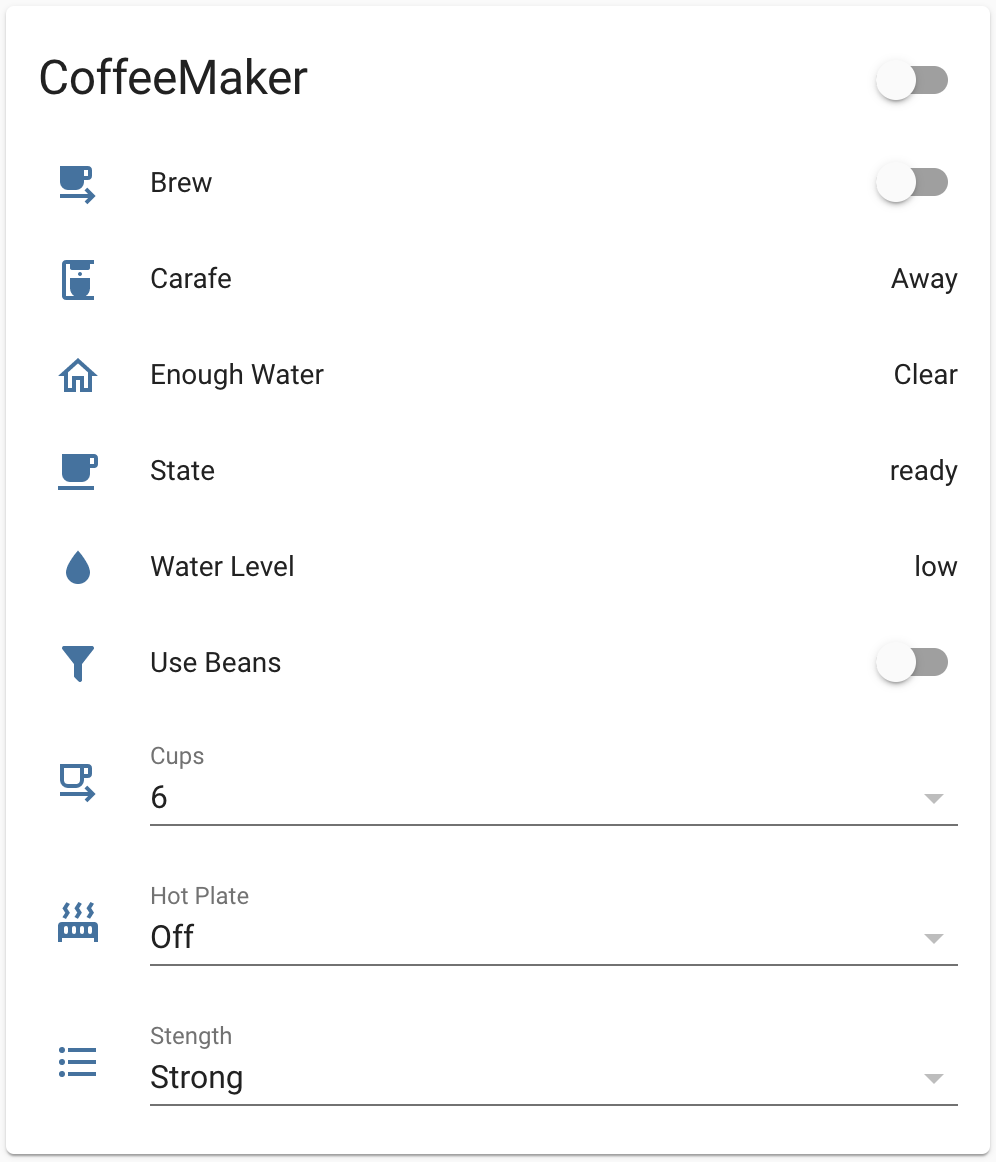
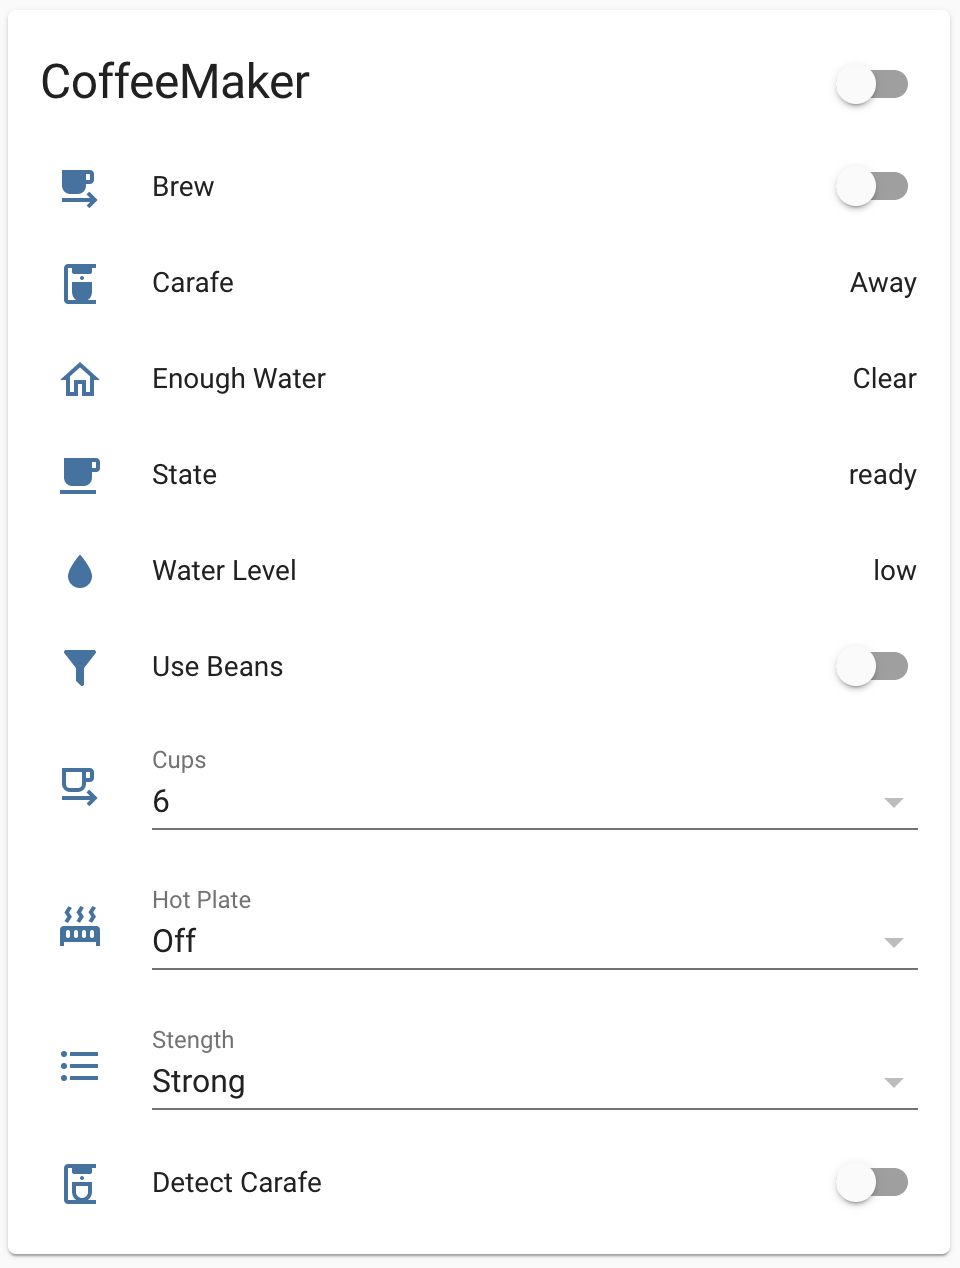
Added support for switch to disable carafe detection. build v 1.4.0

diff --git a/custom_components/smartercoffee/smartercontroller.py b/custom_components/smartercoffee/smartercontroller.py
@@ -85,11 +85,18 @@ class Logger:
     def log(self, string):
         print(string)
 
+
 def as_hex_string(bytes):
         hex_string = ''
         for n in bytes:
             hex_string += ' ' + hex(n)
         return hex_string
+
+def split_response(response):
+    """Find all response messages in a single buffer."""
+    binary = array('B', response)
+    return binary.tobytes().split(COMMAND_SUFFIX.to_bytes(1, 'big'))
+
 
 class SmarterCoffeeController:
     def __init__(self, ip_address, port=2081, mac=None, loop=None, logger=Logger.defaultLogger()):
@@ -175,7 +182,7 @@ class SmarterCoffeeController:
                 if needs_reconnect_timeout:
                     self._log('Waiting for 2 minutes before attempt to reconnect...')
                     await asyncio.sleep(120)
-                
+
                 if not self.is_io_ready:
                     self._log('Reconnecting...')
                     connected = await asyncio.wait_for(self._connect_io(), timeout=30.0)
@@ -185,7 +192,7 @@ class SmarterCoffeeController:
                         needs_reconnect_timeout = False
                         self._loop.call_soon_threadsafe(
                             functools.partial(self._set_availability, True, handler))
-                
+
                 # Wait for 1 seconds
                 await asyncio.sleep(1)
 
@@ -212,10 +219,27 @@ class SmarterCoffeeController:
         self._log('Monitor stopped')
 
     def _handle_message(self, message, handler):
-        self._parse(message)
+        try:
+            responses = split_response(message)
+            for single_message in responses:
+                if len(single_message) < 1:
+                    continue
+                bytes_array = array('B', single_message)
+                id = bytes_array[0]
+                if id == RESPONSE_ID_STATUS:
+                    self._parse(bytes_array)
+                elif id == RESPONSE_ID_CARAFE or id == RESPONSE_ID_MODE:
+                    self._parse_carafe_or_cups_status(bytes_array)
+                elif id == RESPONSE_DEFAULTS:
+                    self._parse_defaults(bytes_array)
+                elif id == RESPONSE_ID_COMMAND:
+                    result = REPLY_TABLE[bytes_array[1]]
+                    self._log(f'result of command {result}')
+        except Exception as exc:
+            self._log(f'exception during parsing {exc}')
         if handler is not None:
             handler(self)
-    
+
     def _set_availability(self, available, handler):
         """Update availability changed in io thread. Called in main thread."""
         self.available = available
@@ -234,7 +258,7 @@ class SmarterCoffeeController:
             except KeyboardInterrupt:
                 self._log('io worker thread stopped')
                 for task in asyncio.all_tasks(loop):
-                    loop.run_until_complete(task)          
+                    loop.run_until_complete(task)
                 loop.stop()    # Received Ctrl+C
                 loop.close()
             self._log('io worker thread exit.')
@@ -381,19 +405,21 @@ class SmarterCoffeeController:
 
     async def fetch_carafe_detection_status(self):
         cmd = self._command_id(COMMAND_GET_CARAFE_REQUIRED)
-        self.carafe_detection = await self._sendCommand(cmd)
-        return self.carafe_detection
-    
+        return await self._sendCommand(cmd)
+
     async def fetch_one_cup_mode_status(self):
         cmd = self._command_id(COMMAND_GET_MODE)
-        self.one_cup_mode = await self._sendCommand(cmd)
-        return self.one_cup_mode
+        return await self._sendCommand(cmd)        
 
     async def turn_carafe_detection_on(self):
+        # force set new state
+        self.carafe_detection = True
         cmd = bytearray([COMMAND_SET_CARAFE_REQUIRED, 0x1, COMMAND_SUFFIX])
         return await self._sendCommand(cmd)
     
     async def turn_carafe_detection_off(self):
+        # force set new state
+        self.carafe_detection = False
         cmd = bytearray([COMMAND_SET_CARAFE_REQUIRED, 0x0, COMMAND_SUFFIX])
         return await self._sendCommand(cmd)
 
@@ -421,7 +447,7 @@ class SmarterCoffeeController:
             self._send_cmd_io(command_bytes), self.io_loop)
         
         return future
-    
+
     async def _send_cmd_io(self, bytes):
         if not self.is_io_ready:
             succeed = await asyncio.wait_for(self._connect_io(), timeout=30.0)
@@ -433,28 +459,33 @@ class SmarterCoffeeController:
             self._writer.write(bytes)
             self._log(f'command sent - waiting for results')
             reply = await self._reader.read(20)
-        
-        result_is_bool = True
+
         try:
             a = array('B', reply)
             self._log(f'arrived cmd response: {as_hex_string(a)}')
-            if a[0] == RESPONSE_ID_COMMAND:
-                result = REPLY_TABLE[a[1]]
-                result_is_bool = False
-            elif a[0] == RESPONSE_ID_CARAFE or a[0] == RESPONSE_ID_MODE:
-                result = a[1] != 0
-            elif a[0] == RESPONSE_DEFAULTS:
-                result = True
-                self._loop.call_soon_threadsafe(
-                    functools.partial(self._parse_defaults, a))
+            self._loop.call_soon_threadsafe(
+                        functools.partial(self._handle_message, a, None))
+            result = REPLY_TABLE[0] # useless - to remove?
         except Exception as exc:
             self._log(f'exception during read cmd status {exc}')
-            if result_is_bool:
-                result = False
-            else:
-                result = 'error: unknown response'
+            result = 'error: unknown response'
         self._log(f'result of command {result}')
         return result
+
+    def _parse_carafe_or_cups_status(self, message):
+        """Parse arrived carafe defect or one cup mode status. Executed on main thread."""
+        try:
+            a = array('B', message)
+            if a[0] == RESPONSE_ID_CARAFE:
+                self.carafe_detection = a[1] != 0
+                self._log(f'Carafe detection is {self.carafe_detection}')
+            elif a[0] == RESPONSE_ID_MODE:                
+                self.one_cup_mode = a[1] != 0
+                self._log(f'One cups mode is {self.one_cup_mode}')
+            else:
+                self._log('Arrived message is not a carafe defect or one cup mode response - return')
+        except Exception:
+            return
 
     def _parse_defaults(self, message):
         """Parse read defaults. Executed on main thread."""
@@ -477,21 +508,22 @@ class SmarterCoffeeController:
         """Parse status response. Executed on main thread."""
         try:
             a = array('B', message)
-            if a[0] != RESPONSE_ID_STATUS:
-                self._log('Arrived message is not a status message - return')
-                return
-            
             hex_string = ''
             for n in a:
                 hex_string += ' ' + hex(n)
             self._log('arrived message: {}'.format(hex_string))
+
+            if a[0] != RESPONSE_ID_STATUS:
+                self._log('Arrived message is not a status message - return')
+                return
 
             status = a[1]
             water_level = a[2]
             wifi_strength = a[3]
             strength = a[4]
             cups = a[5]
-        except Exception:
+        except Exception as ex:
+            self._log(f'Exception during parse {ex}')
             return
 
         def is_set(x, n):
@@ -515,8 +547,8 @@ class SmarterCoffeeController:
         if grinder_on:
             self.state = 'grinding'
         if ready:
-            self.state = 'ready'
-        
+            self.state = 'ready'        
+
         try:
             level = water_level % 16
             self.water_level = water_level_message_types[level]
@@ -532,7 +564,6 @@ class SmarterCoffeeController:
             self.strength = strength_message_types[strength]
         except Exception:
             self.strength = 'strong'
-
 
     def _constrained(self, value, min, max, default):
         constrained_value = default

diff --git a/custom_components/smartercoffee/switch.py b/custom_components/smartercoffee/switch.py
@@ -16,10 +16,15 @@ from homeassistant.exceptions import PlatformNotReady
 from homeassistant.util import convert
 from homeassistant.const import STATE_OFF, STATE_ON, STATE_STANDBY, STATE_UNKNOWN
 from homeassistant.core import callback
+from homeassistant.helpers.dispatcher import (
+    async_dispatcher_send,
+    async_dispatcher_connect
+)
 
 from .const import DOMAIN as SMARTER_COFFEE_DOMAIN
 from .const import MAKERS
 from . import SmarterCoffeeBaseEntity
+from . import SMARTERCOFFEE_UPDATE
 
 _LOGGER = logging.getLogger(__name__)
 
@@ -34,8 +39,8 @@ async def async_setup_entry(hass, config_entry, async_add_entities):
             [
                 SmarterCoffeeSwitch(maker, 'Use Beans', 'use_beans', True, 'mdi:seed', 'mdi:filter'),
                 SmarterCoffeeSwitch(maker, 'Brew', 'brew', False, 'mdi:coffee-to-go', 'mdi:coffee-to-go'),
-                # SmarterCoffeePollingSwitch('Detect Carafe', 'carafe_detection', False, None),
-                # SmarterCoffeePollingSwitch('One Cup Mode', 'one_cup_mode', False, None)
+                SmarterCoffeePollingSwitch(maker, 'Detect Carafe', 'carafe_detection', False, 'mdi:coffee-maker', 'mdi:coffee-maker-outline'),
+                # SmarterCoffeePollingSwitch(maker, 'One Cup Mode', 'one_cup_mode', False, 'mdi:cup', 'mdi:cup-off')
             ]
         )
 
@@ -69,7 +74,7 @@ class SmarterCoffeeSwitch(SmarterCoffeeBaseEntity, SwitchEntity):
 
     async def async_turn_on(self, **kwargs):
         """Turn the entity on."""
-        await self.coffemaker.turn_on(self._switch_class)
+        await self.coffemaker.turn_on(self._switch_class)        
     
     async def async_turn_off(self, **kwargs):
         """Turn the entity off."""
@@ -84,25 +89,31 @@ class SmarterCoffeeSwitch(SmarterCoffeeBaseEntity, SwitchEntity):
 class SmarterCoffeePollingSwitch(SmarterCoffeeSwitch):
     """Representation of a SmarterCoffee switch which needs polling to get state."""
 
-    def __init__(self, maker, name, switch_class, default, icon):
-        """Initialize the SmarterCoffee switch."""
-        super().__init__(maker, name, switch_class, default, icon)
+    def __init__(self, maker, name, switch_class, default, icon_on, icon_off):
+        """Initialize the SmarterCoffee polling-based switch."""
+        super().__init__(maker, name, switch_class, default, icon_on, icon_off)
 
     @property
     def should_poll(self):
         """Return the polling state."""
         return True
-    
+
     async def async_update(self):
         """Fetch switch state."""
+        _LOGGER.info(f'Requested update for switch: {self._switch_class}')
         if self._switch_class == 'carafe_detection':
-            await self.coffemaker.api.fetch_carafe_detection_status()
+            await self.coffemaker.api.fetch_carafe_detection_status()            
         elif self._switch_class == 'one_cup_mode':
             await self.coffemaker.api.fetch_one_cup_mode_status()
 
     async def async_added_to_hass(self):
         """Set up a listener when this entity is added to HA."""
-        pass
-    
-    async def async_will_remove_from_hass(self):
-        pass
+        @callback
+        def _refresh():
+            self.async_schedule_update_ha_state()  # do not use forse update here to avoid recursion
+
+        self._unsub_dispatcher = async_dispatcher_connect(self.hass,
+            SMARTERCOFFEE_UPDATE, _refresh)
+
+        # request initial forse update
+        self.async_schedule_update_ha_state(force_refresh=True)

diff --git a/README.md b/README.md
@@ -42,6 +42,7 @@ SmarterCoffee Machine v 2.0 is NOT supported and will NOT be supported.
 - detect water level
 - detect water presence
 - detect carafe presence
+- disable or enable carafe detection
 
 # Setup
 In your HA UI, go to Configuration/Integrations, select 'Add Integration', search for 'SmarterCoffee Maker' and follow to instructions.
